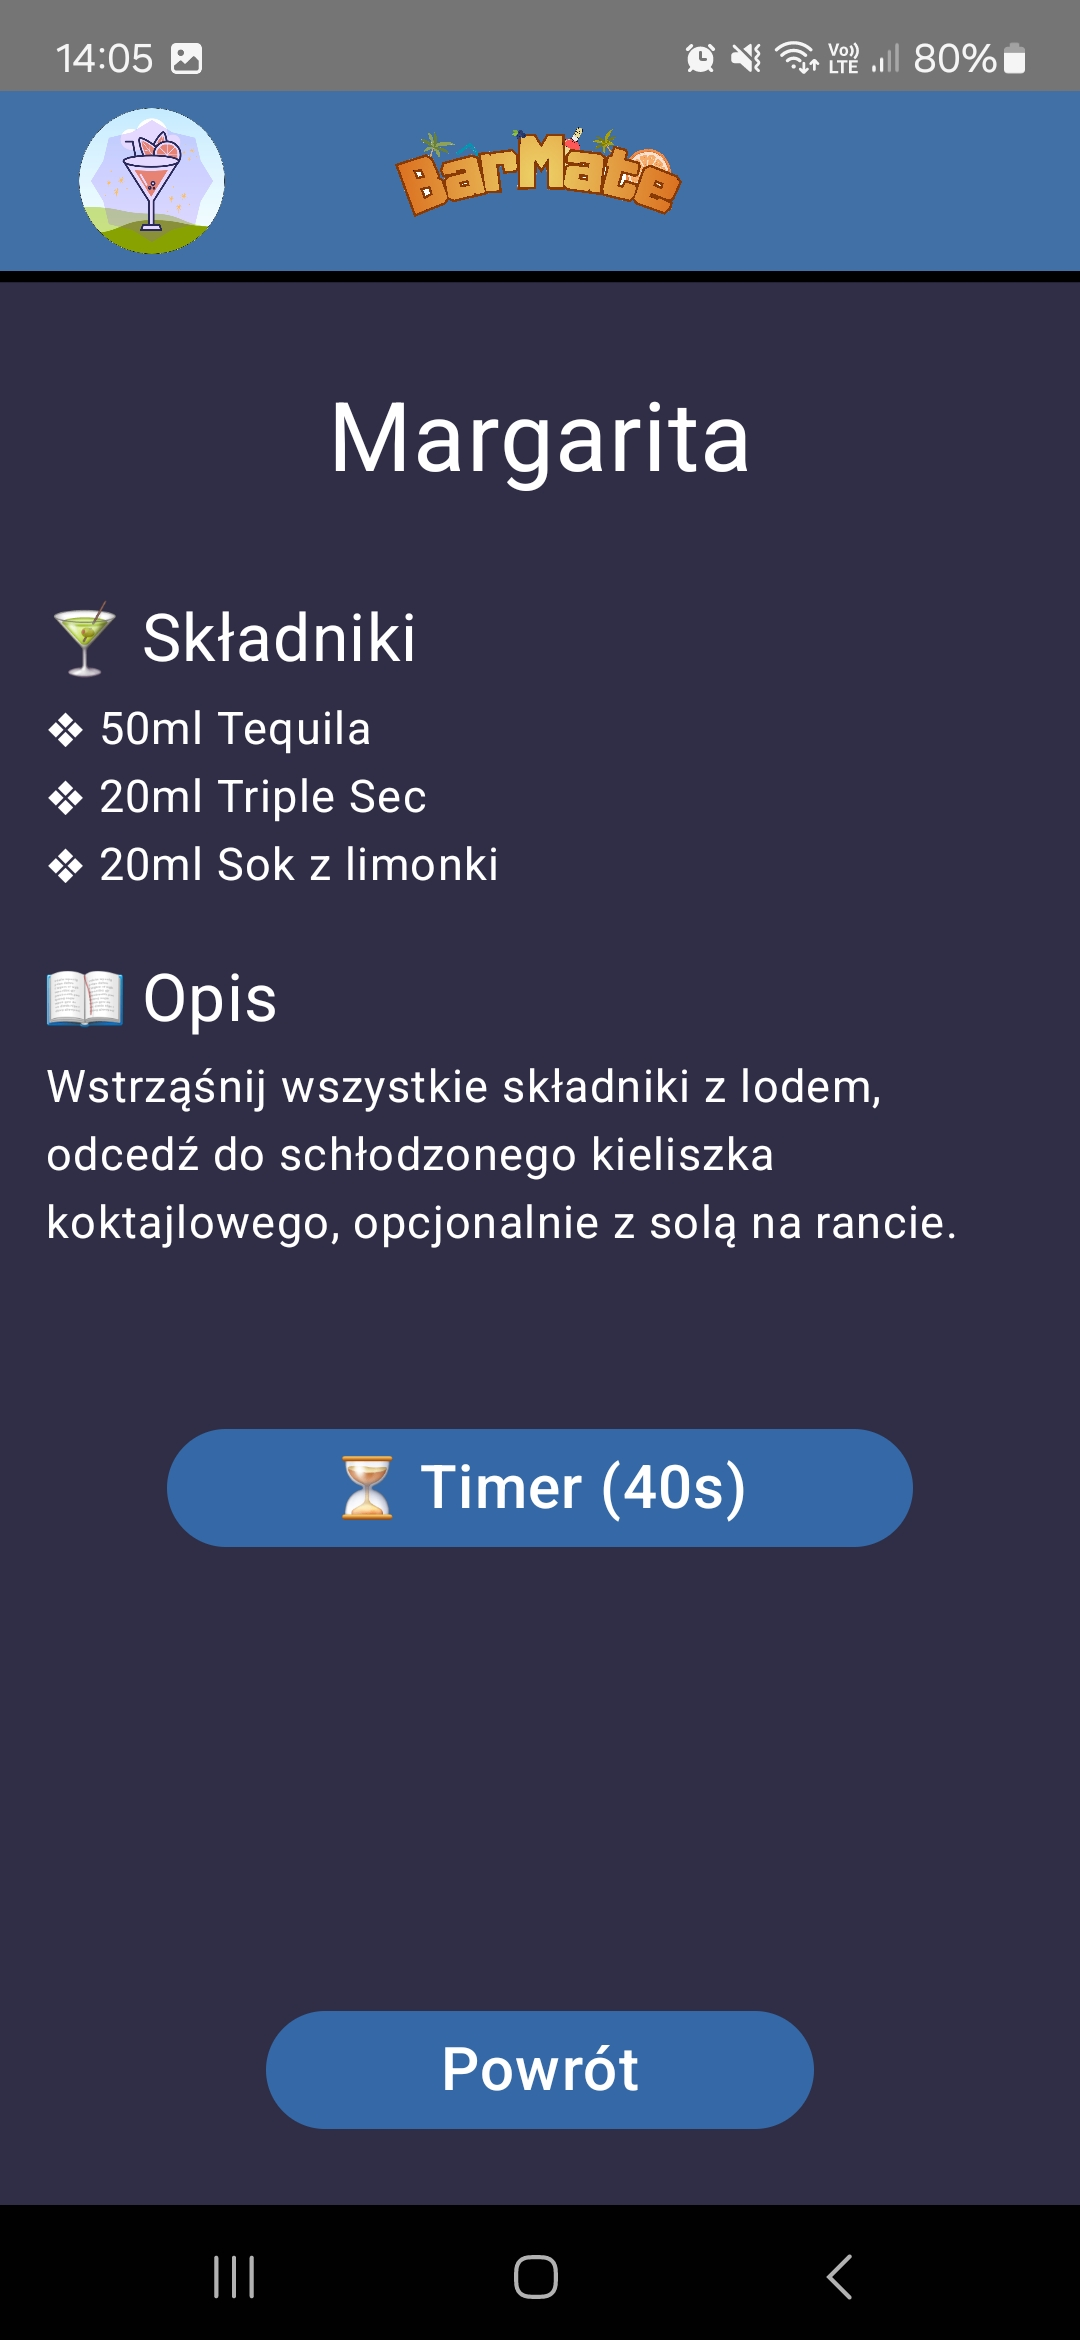
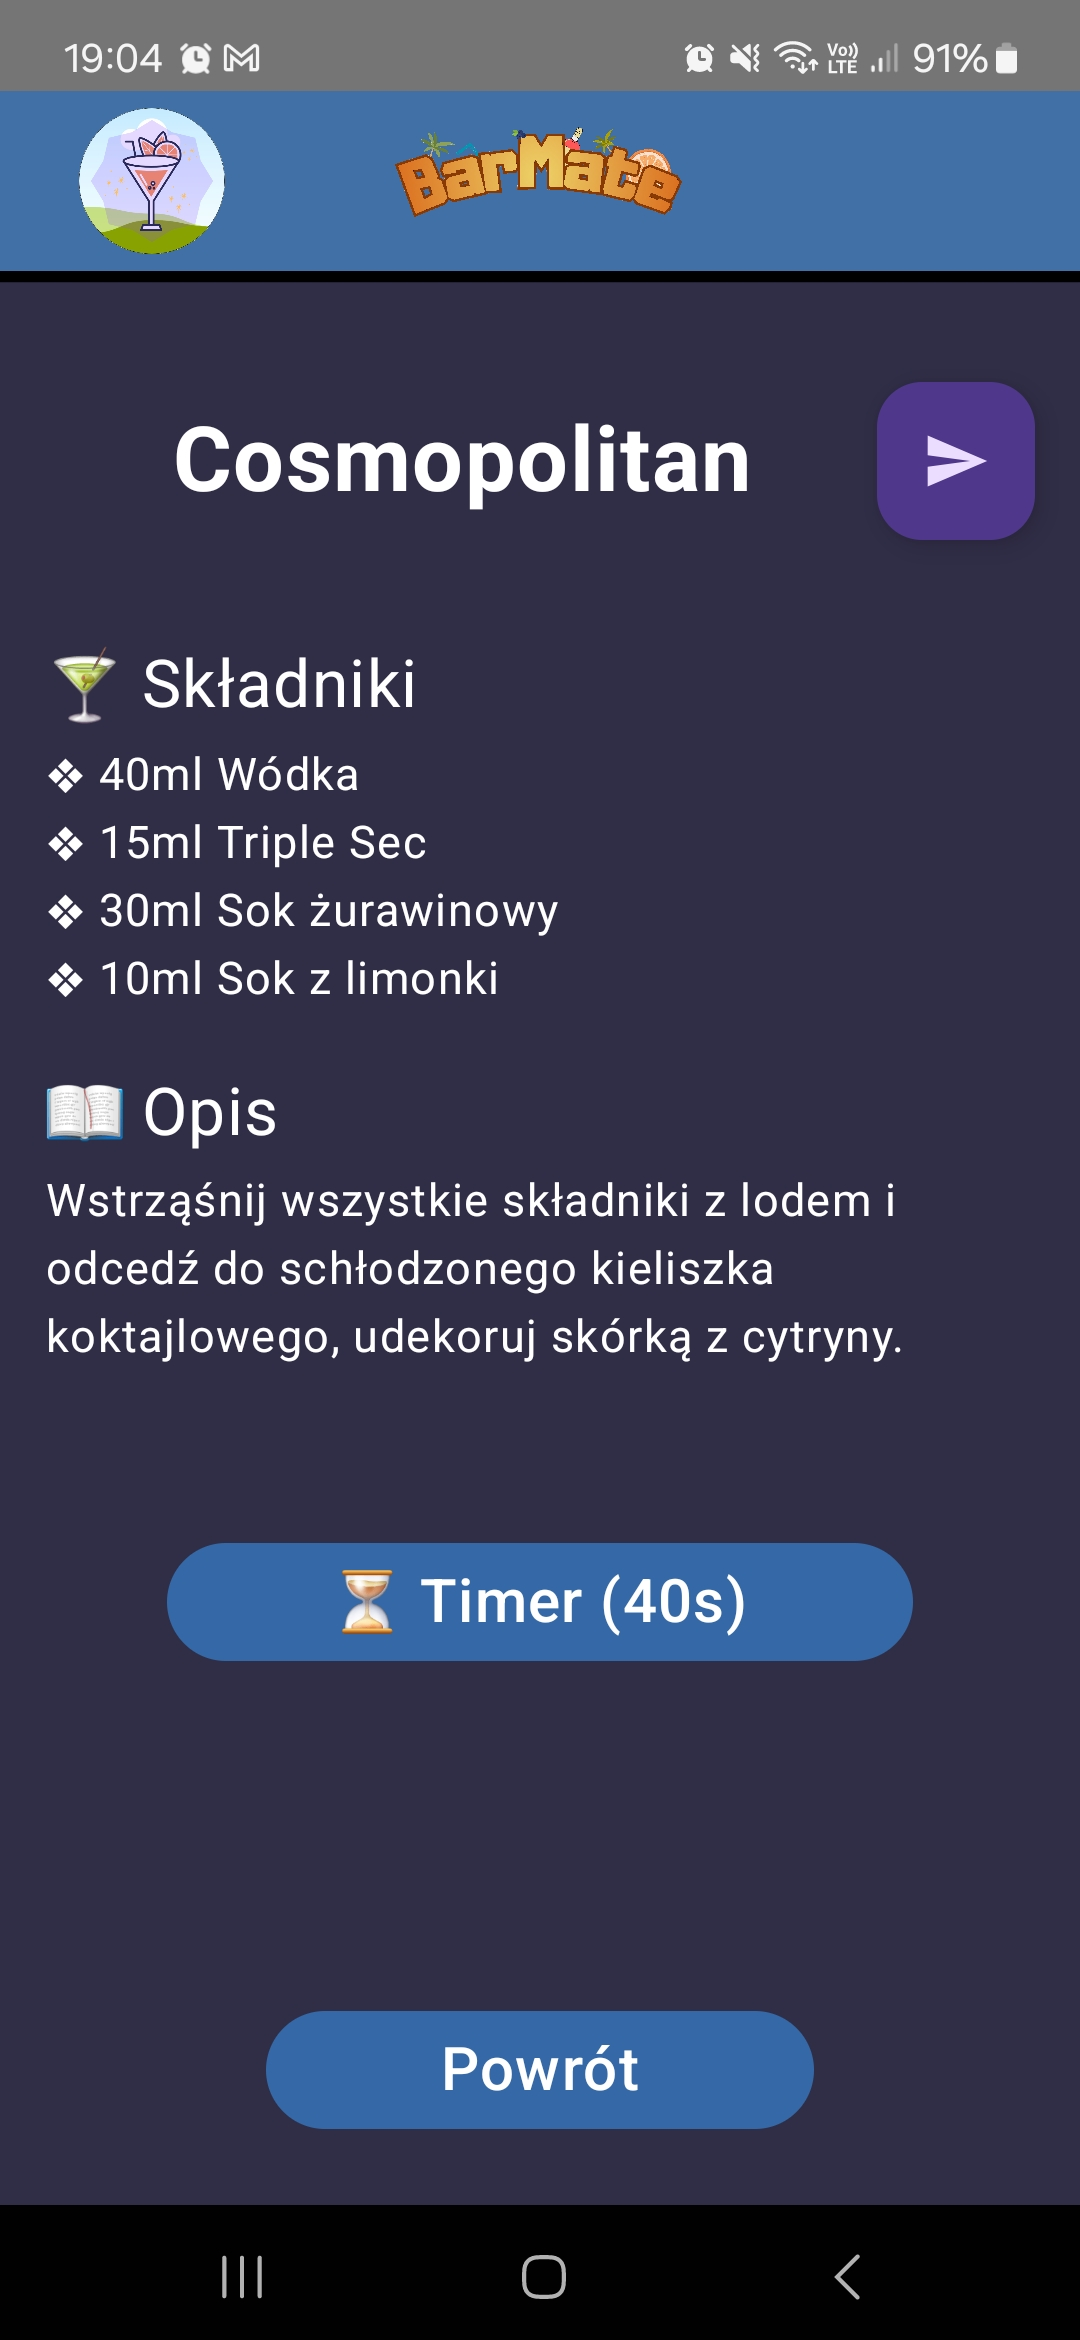
Ostatnia wersja aplikacji + zmiana opisu/zdjęć

diff --git a/README.md b/README.md
@@ -18,23 +18,17 @@ Aplikacja mobilna wspierająca użytkownika w przygotowywaniu koktajli, stworzon
 <a id="l2"></a>
 
 ## 🛠 Główne funkcjonalności
-* Lista koktajli wraz z wyszukiwaniem oraz możliwością dodawania do ulubionych
-* Szczegóły drinka wraz z krótkim opisem przygotowania prezentowane po wybraniu z listy
-* Licznik z animacją shakera barmańskiego, reagujący na stan aplikacji
-* Dynamiczne zarządzanie stanem interfejsu użytkownika dzięki wykorzystaniu ViewModel
-* Wyświetlanie listy drinków z lokalnej bazy danych
-* Obsługa przechowywania i odczytu danych przy użyciu Room (SQLite)
-* Widoki dostosowane do orientacji urządzenia zarówno na telefonie jak i tablecie
+* Lista koktajli wraz z filtrowaniem po nazwie oraz po opcji „Ulubione” (gwiazdka), którą możemy przydzielić każdemu z koktajli znajdujących się na liście
+* Szczegóły drinka wyświetlającego szczegóły, krótki opis przygotowania oraz posiada przycisk FAB wysyłający wiadomość ze składnikami na wybrany numer tel.
+* Minutnik z ustawionym w lokalnej bazie danych czasem mieszania w shakerze zależnie od wybranego drinka z dokładnością do sekundy
+* Wyświetlenie podstawowych informacji o aplikacji po kliknięciu w logo na pasku narzędzi aplikacji w formie wysuwanego alertu
 
 <a id="l3"></a>
 
 ## ⚙ Technologie i architektura
-* **Kotlin**
-* **Jetpack Compose:** deklaratywny framework, nowoczesne podejście do tworzenia UI
-* **MVVM (Model-View-ViewModel):** wzorzec architektoniczny oddzielający logikę biznesową od warstwy UI
-* **Room:** biblioteka ORM do zarządzania lokalną bazą danych SQLite w sposób obiektowy
-* **mutableStateOf:** mechanizm zarządzania stanem w Compose, umożliwiający automatyczne odświeżanie UI
-* **Material3:** nowoczesny system projektowania UI z komponentami zgodnymi z najnowszymi wytycznymi Google
+
+Aplikacja wykorzystuje architekturę MVVM – logika biznesowa została oddzielona od warstwy interfejsu użytkownika. Model odpowiada za lokalną bazę danych utworzoną przy pomocy biblioteki Room (SQLite), ViewModel zarządza przepływem danych między bazą a interfejsem oraz przechowuje stan aplikacji (np. wybrane pozycje lub zakładki), co zapobiega utracie danych podczas obrotu ekranu lub minimalizacji aplikacji. Warstwa View, zrealizowana w Jetpack Compose, odpowiada za prezentację danych i dynamiczne odświeżanie UI.
+Interfejs został dostosowany do orientacji poziomej i pionowej na telefonach (przedstawione na filmie) oraz tabletach, a także do trybu jasnego i ciemnego (light/dark mode), co wpływa na czytelność i estetykę aplikacji.
   
 <a id="l4"></a>
 
